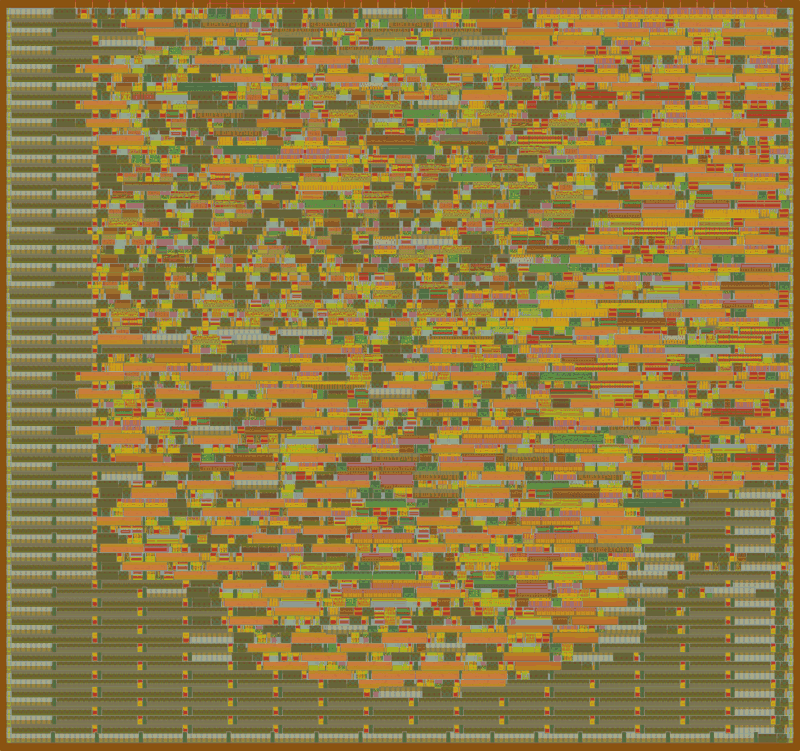
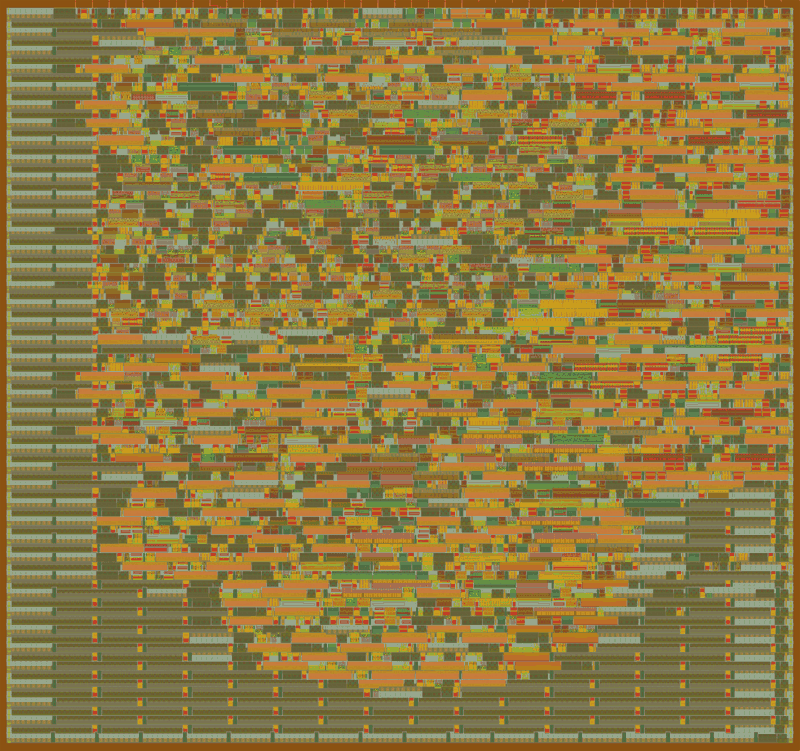
gooooooooooooon

diff --git a/docs/final_report.md b/docs/final_report.md
@@ -1,7 +1,7 @@
 # TinyFIR Final Report
 
 **Team:** Hamza Soofi, Gurpal Johal, Mohil Kadakia, and Ayaan Tunio  
-**Status:** RTL, simulation and the official Tiny Tapeout flow all pass for commit `c3968f1` (branch `heh`, CI run 42127859566). The layout meets 10 MHz at every signoff corner. Its slow-corner margin is thinner than it needs to be because of a flow buffering choice, described in section 6.
+**Status:** RTL, simulation and the official Tiny Tapeout flow all pass for commit `e200e80` on branch `heh` (CI run 42943449582). The layout meets 10 MHz at every signoff corner with at least 38 ns of setup slack.
 
 ## 1. Summary
 
@@ -13,8 +13,8 @@ TinyFIR is a programmable 8-tap FIR filter for a 1x2 Tiny Tapeout tile on GF180.
 | Sample rate at 10 MHz | 500 ksample/s | Met, with no dropped or duplicated samples | Simulation at random phases |
 | Fastest contract-legal rate at 10 MHz | Not specified | 769 ksample/s (13 clocks per sample) | Simulation at random phases |
 | Random arithmetic against the model | At least 10,000 samples | 10,240 samples, 1,549 of them clipped, all exact | Simulation |
-| Cell area | Fit the 112,783 µm² die | 60,267 µm² of standard cells, 55.8% of the core | Final layout |
-| Timing at 10 MHz (100 ns) | Met at every corner | Met at all 9 corners. Worst setup slack 13.4 ns, worst hold slack 0.19 ns | Post-route static timing |
+| Cell area | Fit the 112,783 µm² die | 57,326 µm² of standard cells, 53.1% of the core | Final layout |
+| Timing at 10 MHz (100 ns) | Met at every corner | Met at all 9 corners. Worst setup slack 38.1 ns, worst hold slack 0.19 ns | Post-route static timing |
 | Physical checks | Pass | Precheck 12 of 12, Magic and KLayout DRC clean, LVS match, no antenna violations | Tiny Tapeout CI |
 
 All 28 system tests pass on RTL, on the post-synthesis netlist, and in CI on the final placed-and-routed netlist.
@@ -39,7 +39,7 @@ For each accepted strobe, the circuit captures the sample, clears the accumulato
 | Wrapper | [project.v](../src/project.v) | 9 | 0 |
 | **Total** | | **38,267** | **215** |
 
-These figures are from area-oriented Yosys synthesis with the `tt_025C_3v30` library, before layout. They exclude the clock tree, repair buffers, and tap cells. The flow's own synthesis came to 40,829 µm², and the final layout to 60,267 µm² (section 6).
+These figures are from area-oriented Yosys synthesis with the `tt_025C_3v30` library, before layout. They exclude the clock tree, repair buffers, and tap cells. The flow's own synthesis came to 40,829 µm², and the final layout to 57,326 µm² (section 6).
 
 ## 3. Decisions the proposal left open
 
@@ -53,7 +53,8 @@ The proposal deferred these choices until implementation.
 | SPI readback | Separate read mux | Reads never disturb a calculation, at a measured cost of about 1,100 µm² |
 | Reset | Asserts asynchronously, releases on a clock edge | All flops leave reset in the same cycle, and gate-level simulation has no X problems |
 | Strobe high through reset | `ready` stays low until the strobe is seen low | A strobe left high never captures a stray sample |
-| Clock constraint | `CLOCK_PERIOD` raised from 20 ns to 100 ns | Matches the 10 MHz target. The signed-off layout needs 86.6 ns at its slowest corner (section 6) |
+| Clock constraint | `CLOCK_PERIOD` raised from 20 ns to 100 ns | Matches the 10 MHz target. The signed-off layout needs 61.9 ns at its slowest corner (section 6) |
+| Delay cells | Excluded from synthesis and place and route with `EXTRA_EXCLUDED_CELLS` | The first CI run showed the layout tool using them as buffers, which cost about 25 ns of slow-corner slack (section 6) |
 
 Two small additions go beyond the proposal: a sticky `STATUS` flag for requests dropped while busy, and a `CONTROL` bit that clears the status flags. Both make host errors visible through the pins.
 
@@ -118,75 +119,78 @@ The limits were set after evaluating the quantized coefficients and before final
 
 ## 6. Physical implementation
 
-The official Tiny Tapeout flow (tt-gds-action `ttgf26c`, LibreLane 3.0.14) hardened commit `c3968f1` in GitHub Actions run 42127859566. Every job passed: `gds`, `precheck`, `gl_test` and `viewer`.
+The official Tiny Tapeout flow (tt-gds-action `ttgf26c`, LibreLane 3.0.14) hardened the design in GitHub Actions. The first run, on commit `c3968f1`, passed but exposed a buffering problem, described below. Commit `e200e80` fixes it with one configuration setting, and its run, 42943449582, is the one reported here. Every job passed: `gds`, `precheck`, `gl_test` and `viewer`.
 
 ![Final layout of the 1x2 tile](figures/layout.png)
 
 | Check | Result |
 |---|---|
-| Tiny Tapeout precheck | 12 of 12 checks pass, including a full KLayout GF180MCU DRC (0 violations across 739 rule categories) and an antenna check |
+| Tiny Tapeout precheck | 12 of 12 checks pass, including the KLayout GF180MCU DRC deck without its density rules (0 violations across 739 rule categories) and an antenna check |
 | Magic DRC | 0 errors |
-| LVS | Circuits match uniquely: 1,960 devices, 1,971 nets and all 45 pins |
+| LVS | Circuits match uniquely: 1,962 devices, 1,973 nets, no unmatched pins |
 | Antenna | 0 violations, no diodes needed |
 | Detailed routing | 0 violations after four iterations |
-| IR drop | 0.09 mV at worst |
-| Power | 4.60 mW at the typical corner, a vectorless estimate |
+| IR drop | Under 0.1 mV on either supply |
+| Power | 4.53 mW at the typical corner, a vectorless estimate |
 | Gate-level test | All 28 system tests pass on the final netlist with power pins |
 
-The gate-level simulation is zero-delay, because the cell models' timing is switched off. It shows that the routed netlist behaves exactly like the RTL, but says nothing about timing, which comes from static timing analysis alone.
+The gate-level simulation is zero-delay, because the cell models' timing is switched off. It shows that the routed netlist passes the same 28 pin-level tests as the RTL, with every output checked exactly. It is not a formal equivalence check, and it says nothing about timing, which comes from static timing analysis alone.
 
 ### Timing
 
-Setup and hold are met at all nine signoff corners, with no violations. The slow corners limit setup and the fast corners limit hold. Every critical path starts at the tap counter, runs through the sample and coefficient selection and the multiplier, and ends in the accumulator.
+Setup and hold are met at all nine signoff corners, with no violations. The slow corners limit setup and the fast corners limit hold. At every corner, the worst register-to-register setup paths start at the tap counter, run through the sample and coefficient selection and the multiplier, and end in the accumulator.
 
 | Corner | Setup slack, register to register | Minimum clock period | Worst hold slack |
 |---|---:|---:|---:|
-| Typical: `nom_tt_025C_3v30` | 58.0 ns | 42.0 ns (23.8 MHz) | 0.54 ns |
-| Slow: `nom_ss_125C_3v00` | 14.8 ns | 85.2 ns (11.7 MHz) | 1.38 ns |
-| Fast: `nom_ff_n40C_3v60` | 76.2 ns | 23.8 ns (42.0 MHz) | 0.19 ns |
-| Slowest of all nine: `max_ss_125C_3v00` | 13.4 ns | 86.6 ns (11.5 MHz) | 1.38 ns |
+| Typical: `nom_tt_025C_3v30` | 69.6 ns | 30.4 ns (32.8 MHz) | 0.54 ns |
+| Slow: `nom_ss_125C_3v00` | 39.5 ns | 60.5 ns (16.5 MHz) | 1.38 ns |
+| Fast: `nom_ff_n40C_3v60` | 82.3 ns | 17.7 ns (56.4 MHz) | 0.19 ns |
+| Slowest of all nine: `max_ss_125C_3v00` | 38.1 ns | 61.9 ns (16.2 MHz) | 1.38 ns |
 
-The worst hold slack over all corners, 0.19 ns at `min_ff_n40C_3v60`, is between the reset synchronizer's two back-to-back flops, which is expected. Paths to and from the pins have at least 54 ns of slack even at the slowest corner.
+The worst hold slack over all corners, 0.19 ns at `min_ff_n40C_3v60`, is between the reset synchronizer's two back-to-back flops, which is expected. Paths to and from the pins have at least 57 ns of setup slack, measured against the flow's default input and output delays of 20% of the clock period (20 ns at 100 ns), and at least 16 ns of hold and removal slack. At the typical and fast corners, the smallest setup slack overall, 58 to 59 ns, is on the `spi_cs_n` to `uio_oe[2]` pin path, because of that delay budget.
 
-### Why the slow-corner margin is thin
+### The delay-cell fix
 
-To fix fanout and slew, the layout tool inserted 146 buffers of type `dlyb_1`, a delay cell. The GF180 library describes it as an ordinary buffer, and in the slow-corner library it ranks as the weakest buffer by 0.06%, so OpenROAD picks it. Ten of these cells sit on the worst path and add 43.6 ns of its 88.3 ns at the slowest corner.
+In the first CI run, while buffering the input pins and fixing fanout, slew and capacitance, the layout tool inserted 146 buffers of type `dlyb_1`, a delay cell. The GF180 library describes it as an ordinary buffer, and in the slow-corner library, which the flow loaded first, it ranks as the weakest buffer by 0.06%. That is the most likely reason OpenROAD picked it for the input and fanout buffers, though we have not confirmed this in the OpenROAD source. Ten of these cells sat on the worst path and made up 43.6 ns of its 88.3 ns at the slowest corner, about 25 ns more than ordinary buffers would take.
 
-Adding the twelve delay cells (`gf180mcu_fd_sc_mcu7t5v0__dlya_1` through `__dlyd_4`) to `EXTRA_EXCLUDED_CELLS` in `src/config.json` would stop this. Estimated from the library's tables, it should give about 25 ns more slow-corner setup slack and save about 3,200 µm². That estimate needs another CI run to confirm. The change is optional, since the layout already meets 10 MHz.
+Commit `e200e80` adds the twelve delay cells (`gf180mcu_fd_sc_mcu7t5v0__dlya_1` through `__dlyd_4`) to `EXTRA_EXCLUDED_CELLS` in `src/config.json`. The second run confirmed the effect. With the delay cells excluded, the tool put `buf_1`, the next weakest buffer, in all 136 input and fanout buffers that had been `dlyb_1`, which fits the explanation above. The other 10 became `clkbuf_1`: six wire, three max-capacitance and one load-slew buffer, including five of the ten on the old worst path. The tool chose those some other way.
+
+| Measure | First run (`c3968f1`) | Second run (`e200e80`) |
+|---|---:|---:|
+| Delay cells in the layout | 146 | 0 |
+| Worst setup slack, slowest corner | 13.4 ns | 38.1 ns |
+| Slowest-corner limit | 11.6 MHz | 16.2 MHz |
+| Typical-corner limit | 23.8 MHz | 32.8 MHz |
+| Standard-cell area | 60,267 µm² | 57,326 µm² |
+| Max-capacitance violations | 2 | 0 |
+| Max-slew pins, slowest corner | 440 | 434 |
+
+The slack gain, 24.7 ns, matches the estimate of about 25 ns made from the library tables before the second run.
 
 ### Electrical rule warnings
 
-The flow reports max-slew, max-capacitance and max-fanout violations, which Tiny Tapeout's configuration does not treat as failures.
+The flow reports max-slew and max-fanout violations as warnings only. By default LibreLane checks slew and capacitance at no corner and has no fanout check, and Tiny Tapeout keeps those defaults.
 
-- **Max slew:** 440 pins exceed the flow's 3 ns limit at the slowest corner, 88 at the typical corner, and none at the fast corners. 98% are on nets driven by the delay-cell buffers, which have only x1 drive. Every slew stays inside the library's characterized range, so the timing above is interpolated, not extrapolated. Excluding the delay cells is not expected to clear these on its own, because the replacement `buf_1` has the same output drive.
-- **Max capacitance:** 2 nets, at 0.208 pF and 0.202 pF against a 0.2 pF limit, and only at the max-RC corners.
-- **Max fanout:** 14 clock-tree leaf buffers each drive 12 to 17 flops against a limit of 10, which is normal for a clock tree.
+- **Max slew:** 434 pins on 45 nets exceed the flow's 3 ns limit at the slowest corner (worst 8.3 ns), 77 pins at the typical corner (worst 4.2 ns), and none at the fast corners. At the slowest corner 96% of them, and at the typical corner all of them, are on nets driven by `buf_1` fanout buffers, which have only x1 drive. None is on a clock net. Every slew stays inside the library's characterized range, which goes up to 15.6 ns at the slow corner, so the timing above is interpolated, not extrapolated.
+- **Max fanout:** 13 clock-tree leaf buffers each have a fanout of 15 to 19, counting the clock tree's dummy loads, against a limit of 10. That is normal for a clock tree.
+- **Max capacitance:** none, down from 2 in the first run.
 
-None of these causes a functional problem at 10 MHz. No clock net is affected, and every setup, hold, recovery and removal check passes.
+None of these causes a functional problem at 10 MHz: every setup, hold, recovery and removal check passes. Clearing the slew warnings would take stronger drivers on those nets, mostly the `buf_1` fanout buffers, though 19 of the 434 pins are on nets driven by logic cells. LibreLane's experimental post-global-route design repair (`RUN_POST_GRT_DESIGN_REPAIR`) might provide them, but it is untested here, and this design does not need it.
 
 ### Area
 
-The flow's synthesis came to 40,829 µm², inside the estimate in section 2. The final 60,267 µm² of standard cells (55.8% of the core) adds 8,535 µm² of repair buffers, 5,591 µm² from upsized cells, 3,806 µm² of tap and endcap cells, and 1,506 µm² of clock tree. Fill takes most of the remaining space.
+The flow's synthesis came to 40,829 µm², about 7% above the 38,267 µm² estimate in section 2. The final 57,326 µm² of standard cells (53.1% of the core) adds 5,655 µm² of repair buffers, 5,591 µm² from resized cells, 3,806 µm² of tap and endcap cells, and 1,444 µm² of clock tree. Fill and decap cells (50,606 µm²) take the rest of the core.
 
 ### Pre-layout estimates against signoff
 
-Before CI ran, a quick synthesis estimate put the critical path at 12.2, 24.6 and 6.9 ns at the typical, slow and fast corners. The signed-off register-to-register paths are 42.0, 85.2 and 23.8 ns, about 3.45 times longer. At the typical corner the gap breaks down roughly as follows:
-
-- 9 ns from the flow's area-oriented synthesis
-- 6 ns of timing terms the estimate left out
-- 4 ns of wire load
-- 14 ns from the delay cells
-- 3 ns saved by buffering
-
-The estimate was good enough to choose the 100 ns constraint, but too optimistic to quote as margin.
+Before CI ran, a quick synthesis estimate put the critical path at 12.2, 24.6 and 6.9 ns at the typical, slow and fast corners. The signed-off register-to-register paths are 30.4, 60.5 and 17.7 ns, about 2.5 times longer, and they were about 3.45 times longer before the delay-cell fix. The rest of the gap comes mainly from the flow's area-oriented synthesis, timing terms the quick estimate left out, and wire load. The estimate was good enough to choose the 100 ns constraint, but too optimistic to quote as margin.
 
 ## 7. Known limits
 
 - **Short `ready` and `output_valid` pulses.** `ready` is low for 9 clocks and `output_valid` lasts 1. A slow polling host can miss both, so the datasheet gives a fixed-delay procedure, which `test_host_too_slow_to_watch_ready` covers.
 - **Reset with SPI active.** If reset releases while chip select is low and SCLK is high, the first SCLK level counts as a clock. A write in that frame is rejected and flagged, so it fails safely. This state is outside SPI mode 0 idle.
 - **Simulation cannot show metastability.** The synchronizers follow standard practice, but only silicon can test them. Gate-level simulation is zero-delay, so timing evidence comes only from static timing analysis.
-- **Slow-corner headroom.** At the slowest corner the layout supports about 11.5 MHz, roughly 15% above the 10 MHz target, until the delay-cell change in section 6 is made.
-- **Electrical warnings.** The max-slew, max-capacitance and max-fanout warnings in section 6 were reviewed and accepted, and they remain in the layout.
+- **Electrical warnings.** The max-slew and max-fanout warnings in section 6 were reviewed and accepted, and they remain in the layout.
 - **No silicon testing.** Testing the chip depends on fabrication and delivery dates.
 
 ## 8. How to reproduce

diff --git a/docs/info.md b/docs/info.md
@@ -41,7 +41,7 @@ Times are in cycles of the system clock, `clk`, which targets 10 MHz. Samples ca
 
 `uo_out` and `saturated` update together with the one-clock `output_valid` pulse, and hold until the next result.
 
-Static timing analysis of the final layout meets 10 MHz at all nine signoff corners. The slowest corner supports up to about 11.5 MHz.
+Static timing analysis of the final layout meets 10 MHz at all nine signoff corners. The slowest corner supports up to about 16 MHz.
 
 With fixed coefficients, the filter's response stays the same relative to the sample rate, so its cutoff in hertz moves as the sample rate changes.
 
